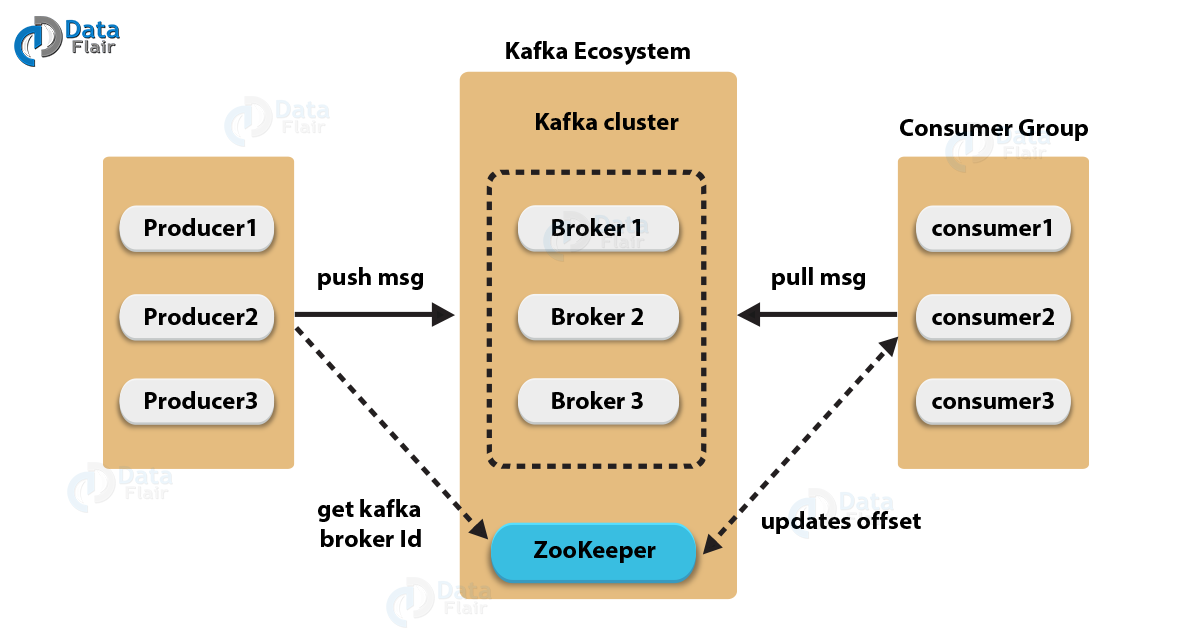
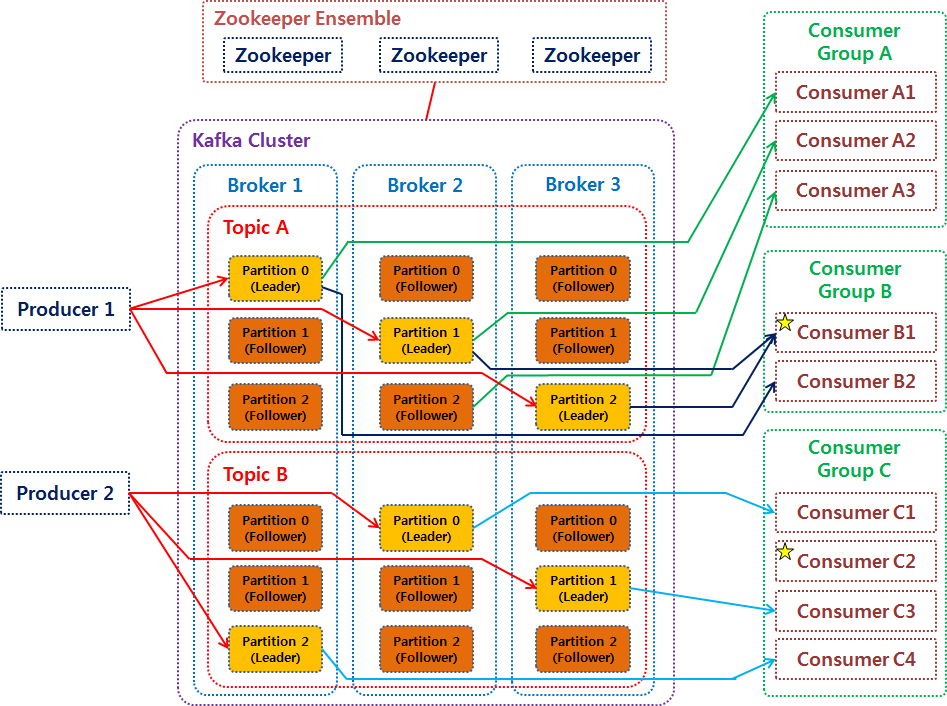
Kafka 이론 추가

diff --git a/Kafka/1) Kafka 개념.md b/Kafka/1) Kafka 개념.md
@@ -1,20 +1,11 @@
-# Kafka
+# Apache Kafka
 
 ## 카프카 아키텍처
 
 ![kafka](../images/kafka/kafka.png)
 
-    1. 프로듀서(producer) 
-       1. 메시지를 생산하여 브로커의 토픽으로 전달하는 역할
-    2. 브로커(Broker)
-       1. 카프카 애플리케이션이 설치되어있는 서버 또는 노드를 지칭
-    3. 컨슈머(Consumer)
-       1. 브로커의 토픽으로부터 저장된 메시지를 전달받는 역할
-    4. 주키퍼(Zookeeper)
-       1. 분산 애플리케이션 관리를 위한 코디네이션 시스템
-       2. 분산된 노드의 정보를 중앙에 집중하고 구성관리,그룹 네이밍, 동기화 등의 서비스 수행
 
-## 작동방식
+## 동작 흐름
 
     1. 프로듀서는 새로운 메시지를 Kafka에 전달
     2. 전달된 메시지는 브로커의 '토픽'이라는 메시지 구분자에 저장
@@ -35,19 +26,37 @@
     5. 배치 전송 처리
        1. 메세지를 작은 단위로 묶어 배치 처리를 해서 속도 향상을 시킴
 
-## 카프카 데이터 모델
+## 카프카 구성요소
 
 ![kafkadata](../images/kafka/kafkadata.png)
 
-#### 토픽(Topic)
+## 브로커(Brokers)
 
-    메시지를 논리적으로 묶은 개념.
+      Kafa Cluster는 여러대의 Broker(일종의 서버)로 구성
 
-    일종의 폴더.
+      카프카 서버라고도 불림.
+
+      각 broker는 고유한 id값을 가짐.
+
+      특정 topic의 partition을 포함함.
+
+      통상적으로 3개의 broker를 운영하는 것이 이상적. 
+
+## 토픽(Topic)
+
+![topic](../images/kafka/topic.png)
+
+    브로커에서 데이터를 관리할 때 기준이 되는 개념
+
+    일종의 폴더 혹은 주제
+
+    토픽 이름으로 구분됨.
 
     프로듀서가 메시지를 보내면 해당 토픽에 저장되고 컨슈머가 가져간다
 
-#### 파티션
+    토픽은 파티션으로 나뉘어서 처리됨.
+
+## 파티션
 
     토픽을 구성하는 데이터 저장소.
 
@@ -55,26 +64,44 @@
 
     일종의 입구라고 생각? 
 
+    파티션 내의 메시지는 offset이라는 단위로 고유 id가 증가
+
+    데이터의 보존주기는 default 7일
+
     프로듀서당 하나의 파티션에 연결하면 빠르다 
 
     하지만, 또 너무 많으면 낭비가 생김. 
     리플리케이션 (장애 복구) 시간이 증가함
     한번 늘리면 줄일 수 없음!
-        
-#### 리플리케이션
+
+## 복제 계수(Replication Factor)
 
 ![replication](../images/kafka/replication.jpeg)
 
-      브로커를 복제 해두는 것. 다운되는것을 예방하기 위해
-      원본이 리더, 복제품이 팔로워. 팔로워는 read/write 권한없고 리더 데이터 복제만 함.
+      토픽을 복제 해두는 것. 다운되는것을 예방하기 위해
+
+      복제계수가 1인 경우, 브로커 A만 존재.
+
+      원본의 broker가 리더, 복제품이 팔로워. 팔로워는 read/write 권한없고 리더 데이터 복제만 함.
+
       리더와 팔로워가 묶여서 ISR(In Sync Replica) 구성. 
 
+#### 리더 파티션(Leader Partition) 
 
-#### 오프셋
+      프로듀서로부터 전달된 데이터를 보관하는 역할
 
-      파이션마다 메시지가 저장되는 위치
+      리더 파티션은 프로듀서, 컨슈머와 직접 통신하는 파티션
 
-      메시지는 라운드 로빈 방식으로 여러개의 파티션에 순차적으로 쌓임.
+      읽기, 쓰기 연산 담당
+
+#### 팔로워 파티션(Follower Partition)
+
+      리더 파티션으로 전달된 데이터를 복제해서 복제된 데이터를 저장.
+
+
+## 오프셋
+
+      파티션마다 메시지가 저장되는 위치
 
       각 파티션 내에서 순차적인 숫자 형태로 저장됨
 
@@ -82,14 +109,50 @@
 
       전체 메시지의 순서를 보장하고 싶다면, 파티션은 1개로만 설정해야 함
 
-#### 컨슈머 그룹
+## 프로듀서(Producers)
+
+![producer](../images/kafka/producer.png)
+
+      메시지를 생산해서 브로커의 토픽으로 메시지를 보내는 역할을 하는 애플리케이션이나 서버 모두를 프로듀서라고 부름.
+
+      데이터를 쓰는 동시에 어떤 broker의 어떤 파티션으로 가게 될지 알고있음.
+
+
+## 메세지 키(message keys)
+
+![messagekey](../images/kafka/messagekey.png)
+
+      프로듀서가 데이터를 writer 할 때, 
+
+      key값을 설정해서 보낼 수 있음.
+
+      key = null이면, 메시지는 UniformStickyPartitioner 방식으로 데이터가 배치로 모두 묶일 떄까지 기다린 뒤, 덩어리는 모두 동일한 파티션에 전송됨.
+
+      key를 지정하면, 항상 같은 파티션으로 보내짐.
+
+## 컨슈머(consumers)
+![consumer](../images/kafka/consumer.png)
+
+      파티션에 저장되어 있는 메시지를 소비하는 역할을 하는 애플리케이션이나 서버 모두
+
+      각 파티션 내에서 순서대로 읽어옴.
+
+## 컨슈머 그룹
+
+![consumergroup](../images/kafka/consumergroup.png)
 
     동일 토픽에 대해 여러 컨슈머가 메시지를 가져갈 수 있도록 컨슈머 그룹을 만듦.
 
     프로듀서가 메시지를 전달하는 속도가 컨슈머가 메시를 가져가는 속도 보다 빠를 때, 메시지가 점점 쌓이기 떄문에 
 
-    하나의 파티션당 하나의 컨슈머가 연결
+    하나의 파티션당 하나의 컨슈머가 연결. 그룹 내의 컨슈머는 각기 다른 파티션에 할당.
+
+    컨슈머의 수가 파티션의 수보다 많다면, 몇 컨슈머는 놀게 됨
 
 ## 참조
 
 https://velog.io/@jaehyeong/Apache-Kafka%EC%95%84%ED%8C%8C%EC%B9%98-%EC%B9%B4%ED%94%84%EC%B9%B4%EB%9E%80-%EB%AC%B4%EC%97%87%EC%9D%B8%EA%B0%80
+
+https://velog.io/@king3456/Apache-Kafka-%EA%B8%B0%EB%B3%B8%EA%B0%9C%EB%85%90
+
+https://velog.io/@jwpark06/Kafka-%EC%8B%9C%EC%8A%A4%ED%85%9C-%EA%B5%AC%EC%A1%B0-%EC%95%8C%EC%95%84%EB%B3%B4%EA%B8%B0

diff --git a/Spring/Filter/Filter 개념.md b/Spring/Filter/Filter 개념.md
@@ -1,6 +1,6 @@
 # Filter
 
-![interceptor](../images/Spring/interceptor.png)
+![interceptor](../../images/Spring/interceptor.png)
 
 ## 정의
 
@@ -87,6 +87,9 @@ FilterRegistrationBean을 이용한 Filter 등록
         } 
     }
 ```
+## 연습예제 
+
+https://velog.io/@rainbowweb/%EC%8A%A4%ED%94%84%EB%A7%81%EB%B6%80%ED%8A%B8-Filter-%EC%84%A4%EC%A0%95-%EC%98%88%EC%A0%9C
 
 ## 참고
 

diff --git a/Docker/3) Mysql 도커 설치.md b/Docker/3) Mysql 도커 설치.md
@@ -20,3 +20,6 @@
 
     비밀번호 입력창 나옴
 
+    <비밀번호 없으면>
+    mysql -u root
+
